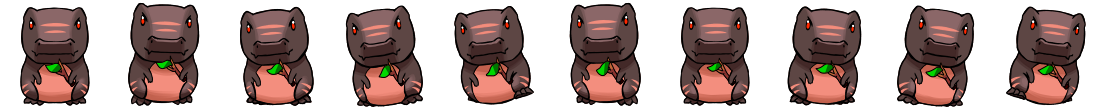
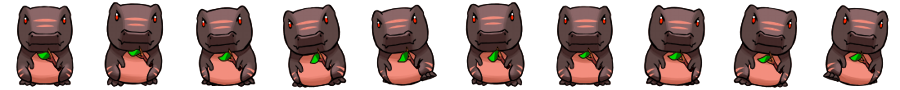
unkillable front

diff --git a/core/src/tiktaalik/trino/GameController.java b/core/src/tiktaalik/trino/GameController.java
@@ -100,7 +100,7 @@ public class GameController implements ContactListener, Screen {
 	private static final String ENEMY_STRIP_LEFT = "trino/enemy_left_strip.png";
 	private static final String ENEMY_STRIP_RIGHT = "trino/enemy_right_strip.png";
 	private static final String ENEMY_STRIP_BACK = "trino/enemy_back_strip.png";
-	private static final String UNKILLABLE_ENEMY_STRIP_FRONT = "trino/unkillable_enemy_back.png";
+	private static final String UNKILLABLE_ENEMY_STRIP_FRONT = "trino/unkillable_enemy_front.png";
 	private static final String UNKILLABLE_ENEMY_STRIP_LEFT = "trino/unkillable_enemy_left.png";
 	private static final String UNKILLABLE_ENEMY_STRIP_RIGHT = "trino/unkillable_enemy_right.png";
 	private static final String UNKILLABLE_ENEMY_STRIP_BACK = "trino/unkillable_enemy_back.png";
